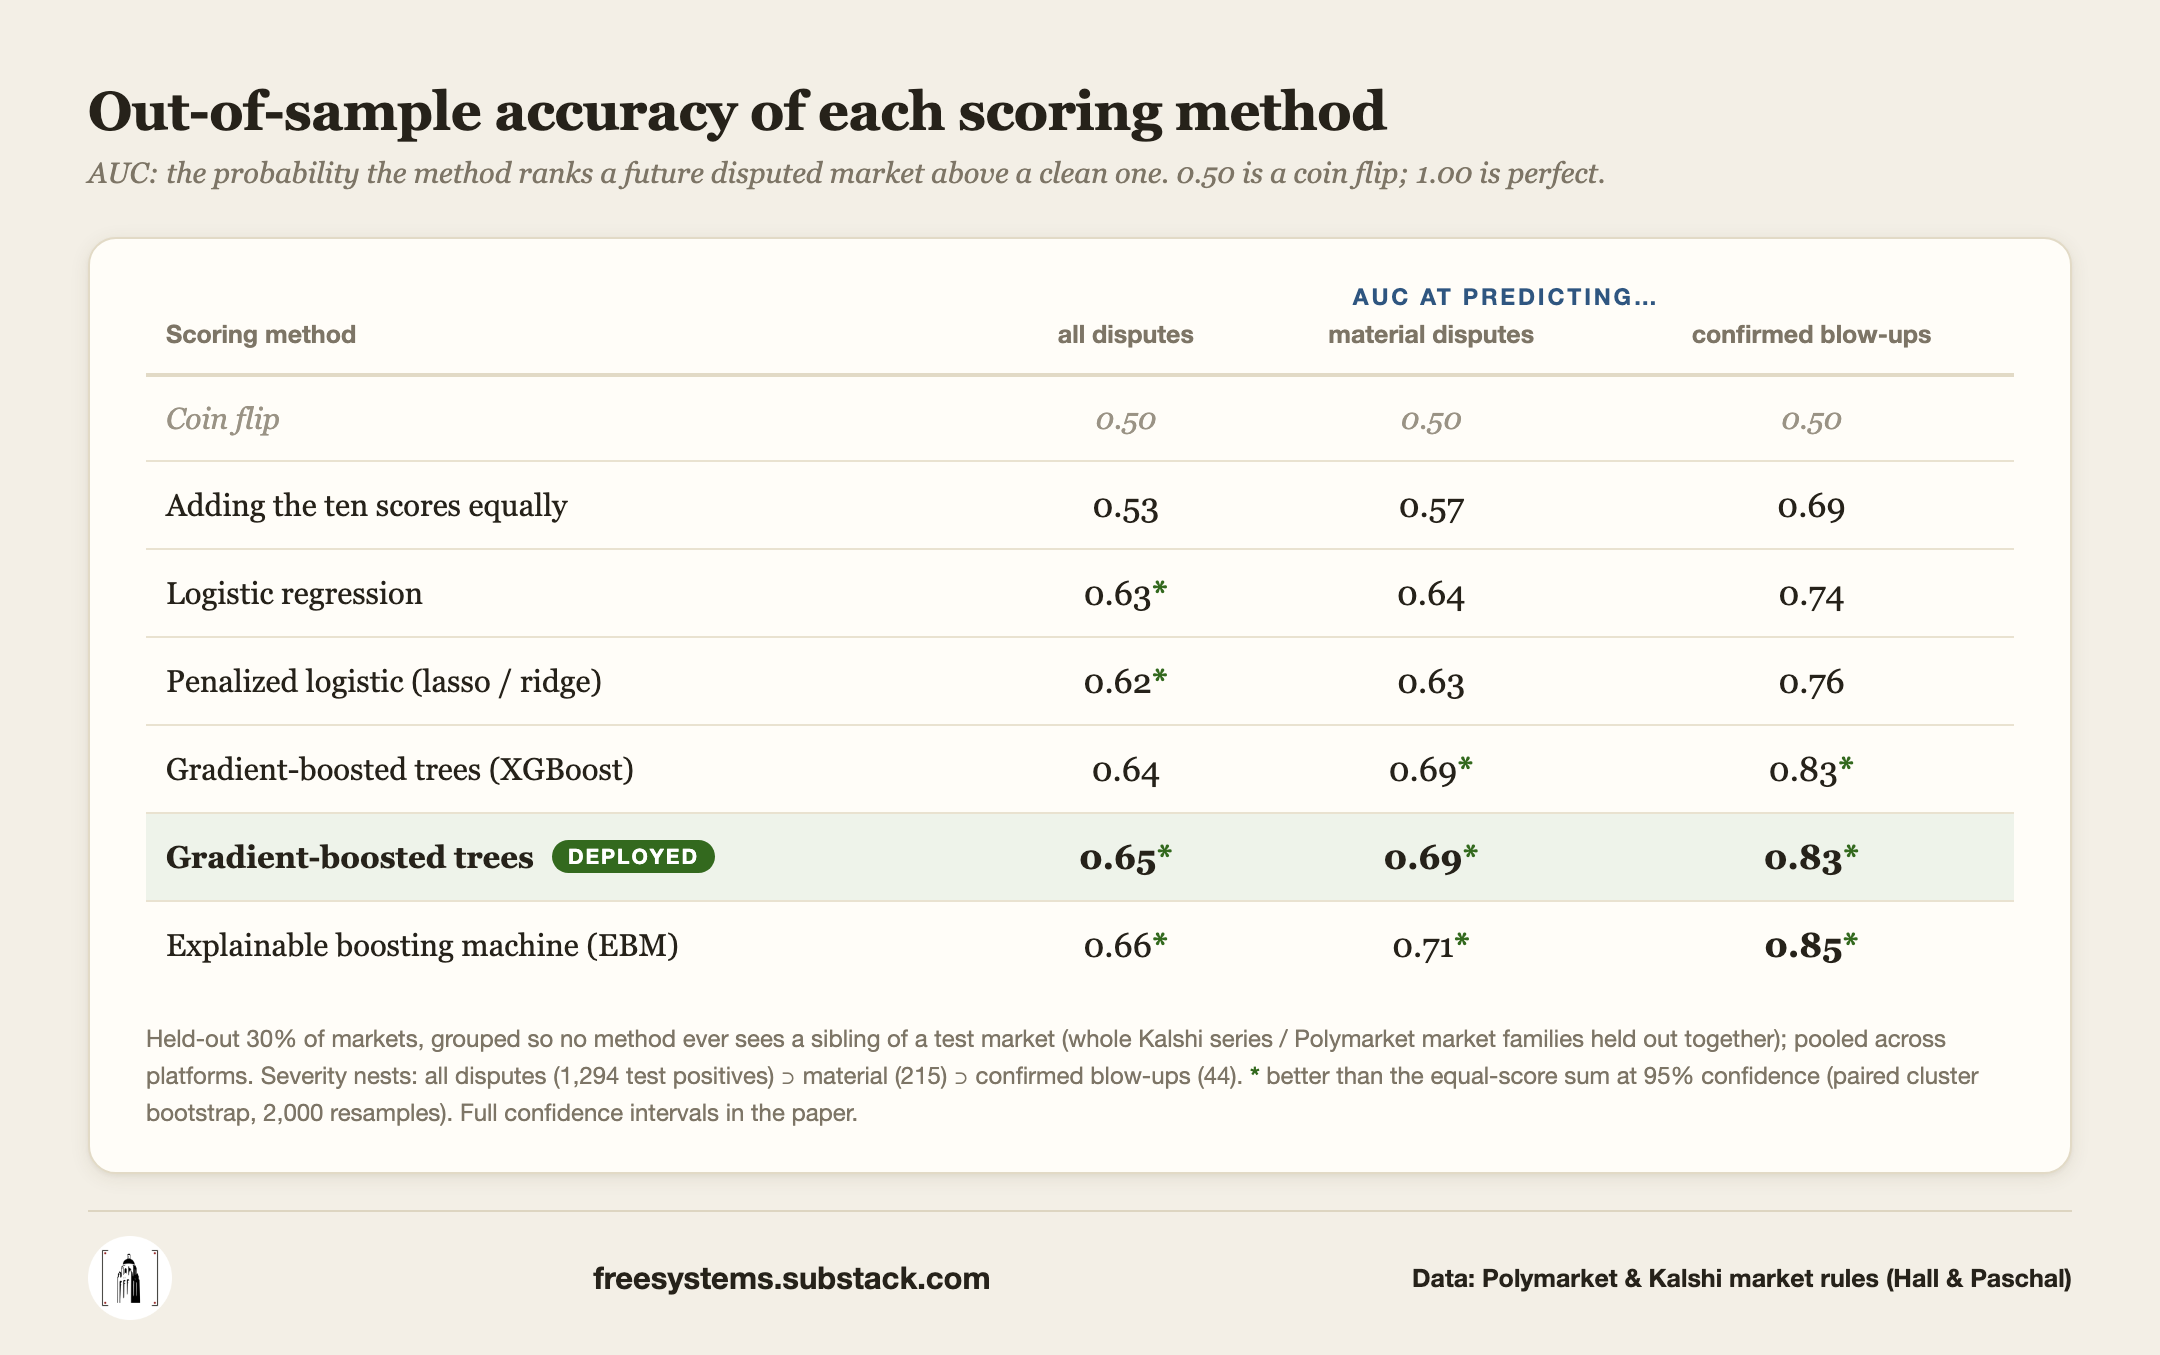
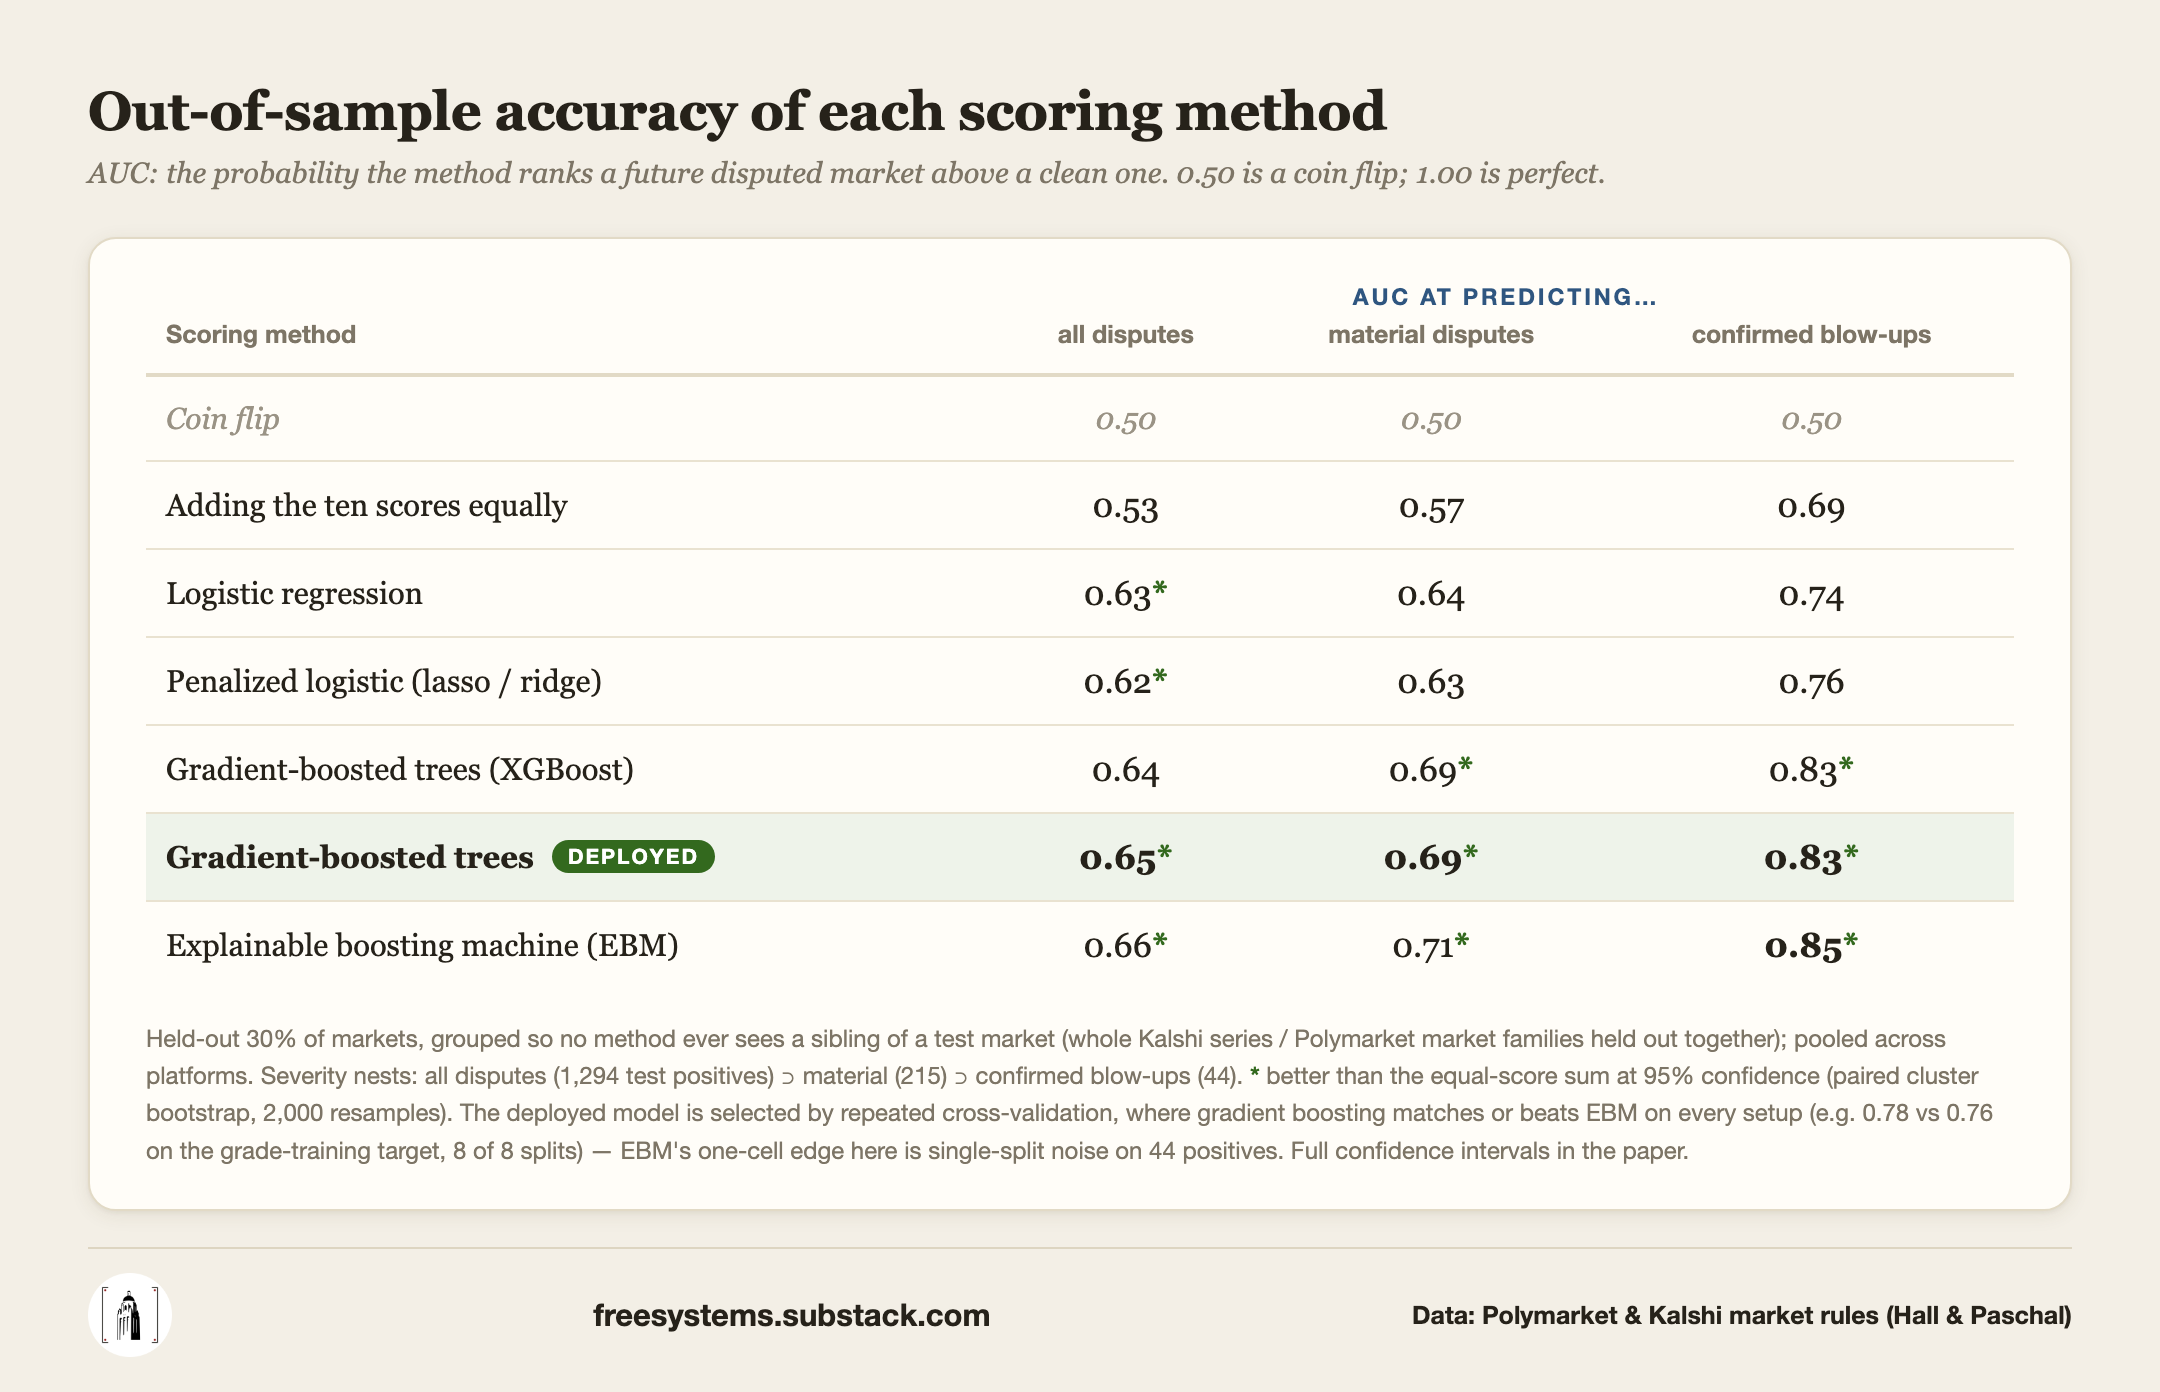
Explain model deployment choice in the accuracy table footnote
Repeated grouped CV (8 paired splits): HGB matches EBM on both platform
samples and beats it 8/8 on the pooled clean+confirmed grade-training
setup (0.777 vs 0.764). The leaderboard's EBM edge (0.85 vs 0.83
confirmed) is single-split noise on 44 positives.

diff --git a/substack/figs/accuracy_table.html b/substack/figs/accuracy_table.html
@@ -113,7 +113,10 @@
       platforms. Severity nests: all disputes (1,294 test positives) &supset; material (215)
       &supset; confirmed blow-ups (44). <span class="star">*</span>&nbsp;better than the
       equal-score sum at 95% confidence (paired cluster bootstrap, 2,000 resamples).
-      Full confidence intervals in the paper.
+      The deployed model is selected by repeated cross-validation, where gradient
+      boosting matches or beats EBM on every setup (e.g. 0.78 vs 0.76 on the
+      grade-training target, 8 of 8 splits) &mdash; EBM's one-cell edge here is
+      single-split noise on 44 positives. Full confidence intervals in the paper.
     </div>
   </div>
 
